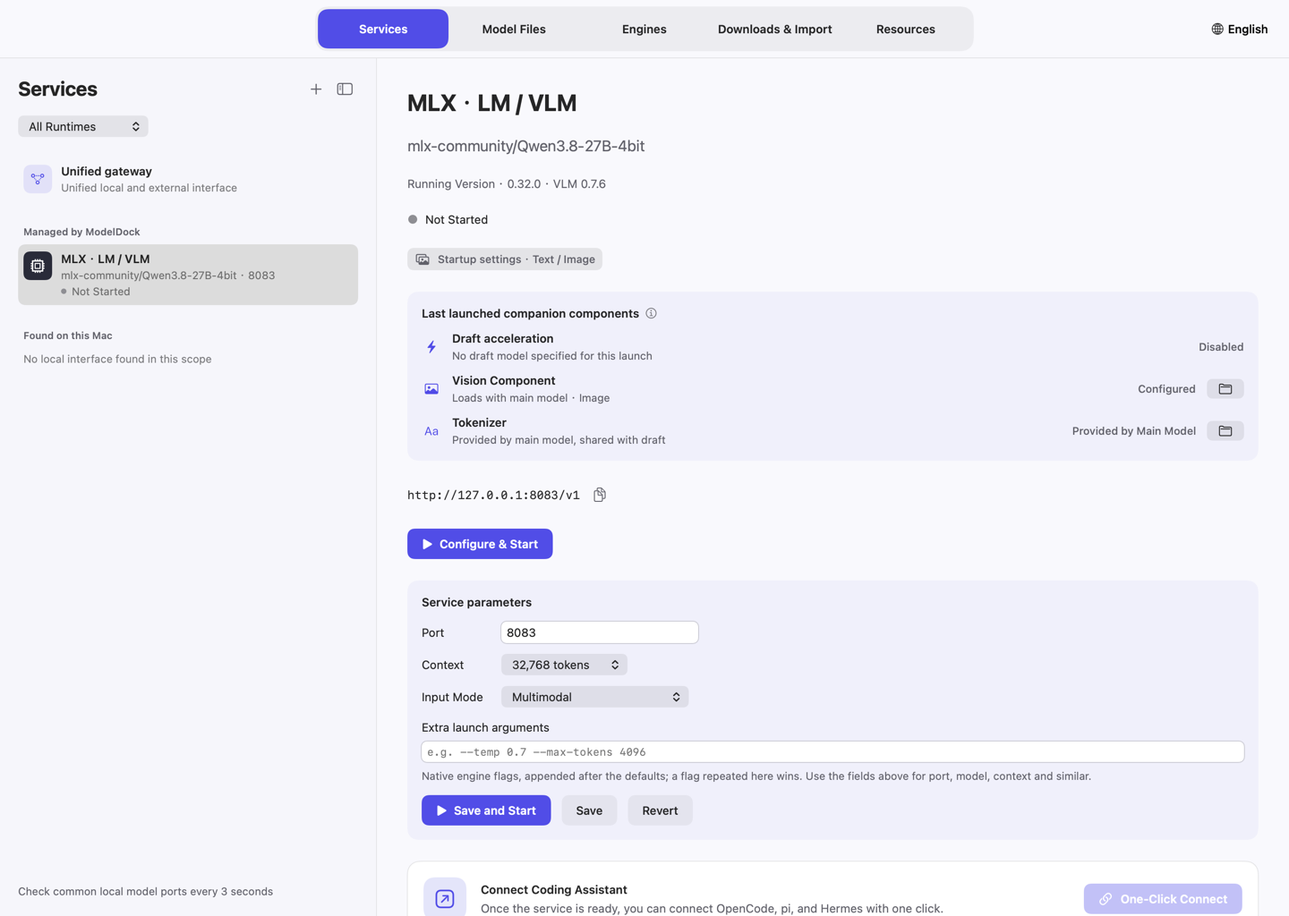
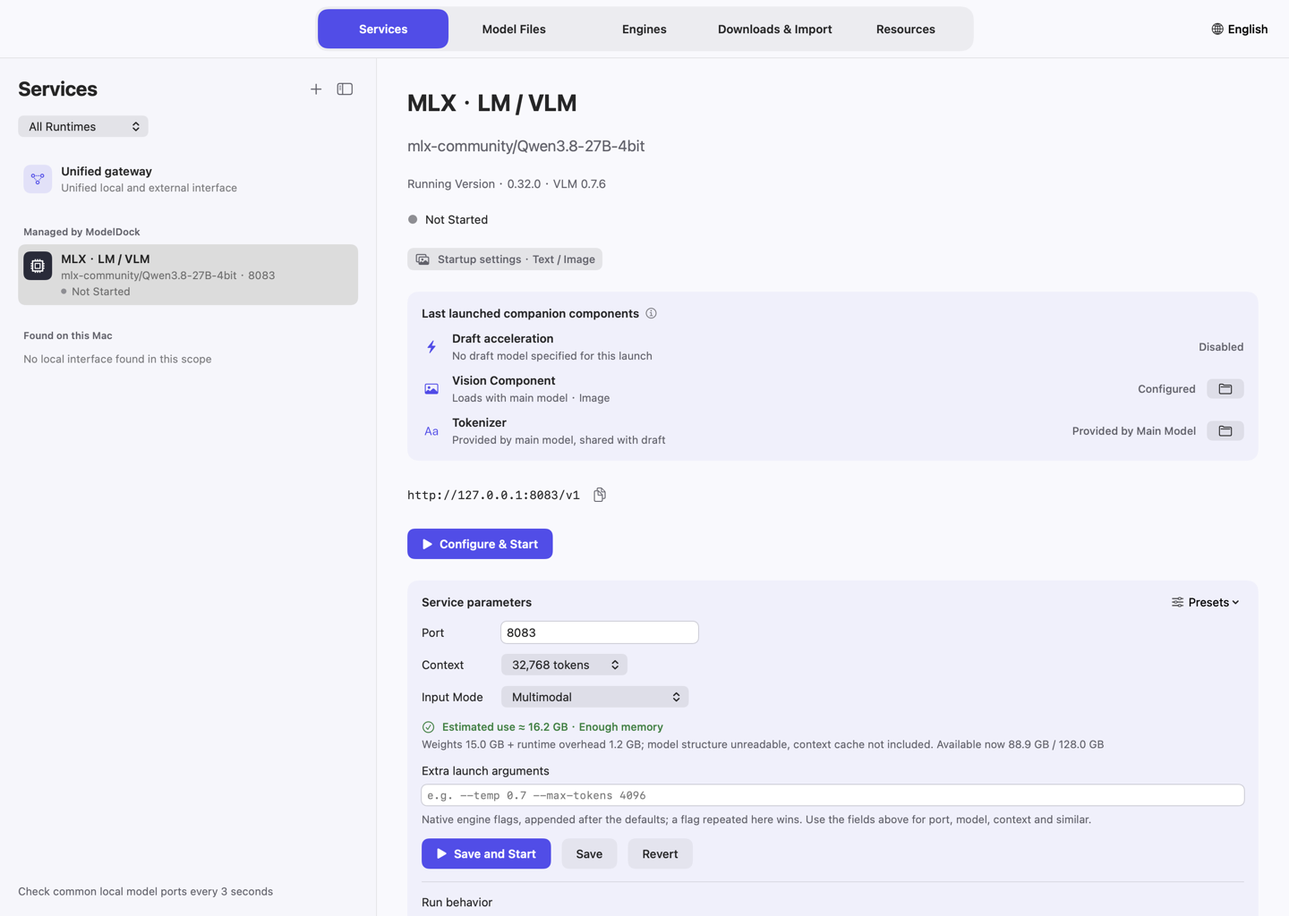
Release ModelDock 0.9.5

Changed region(s): [[0.3125, 0.7812, 0.8438, 1.0], [0.8438, 0.9375, 0.9688, 1.0], [0.9062, 0.6562, 0.9375, 0.6875]]

diff --git a/website/guide.html b/website/guide.html
@@ -71,6 +71,7 @@
 <p>Each prepared combination has a separate directory. <strong>Model Files → Associated launch components</strong> selects a retained combination for a later launch. Running services retain their original combination. Updating Strata changes its runtime, not model files; stop only Strata services before that update. Shared weights and components in use are protected from deletion or repair.</p>
 <p>Strata requires matched <strong>Flash-Next weights + n-gram + vocabulary/model pack</strong>. Its MTP component is not a Splash DFlash draft. Image support needs the prepared projection/encoder; this integration does not claim audio, video or PDF support. External Strata APIs can still be registered with the gateway and pi/OpenCode. See the <a href="https://github.com/Niko1221/Strata/blob/main/docs/MAC.md">official Mac guide</a> for upstream architecture limits.</p>
 <h2 id="3-download-a-model">3. Download a model</h2>
+<p>If you do not know the repository name, search Hugging Face at the top of the page: enter keywords and pick a format (all, GGUF, MLX). Results are sorted by downloads; <strong>Select</strong> resolves the repository's files. GGUF files in the list are labeled <strong>Fits this Mac</strong>, <strong>Tight on memory</strong> or <strong>Exceeds this Mac's memory</strong> by size (context cache not included).</p>
 <p>Open <strong>Downloads &amp; Import</strong>, choose the destination library, and enter either:</p>
 <pre><code class="language-text">mlx-community/Qwen3.8-27B-4bit
 https://huggingface.co/mlx-community/Qwen3.8-27B-4bit
@@ -106,7 +107,7 @@ https://huggingface.co/mlx-community/Qwen3.8-27B-4bit
 <p>Click <strong>Start Service…</strong> — from the <strong>+</strong> in the Services sidebar, an engine's <strong>Service instances</strong>, or <strong>Configure Service</strong> on a model — then choose the engine and model in the sheet and review:</p>
 <ol>
 <li><strong>Port:</strong> use an unused port. Each independently hosted service needs its own endpoint; the manager identifies listeners by process identity as well as the port.</li>
-<li><strong>Context window:</strong> configure a size supported by the engine/model and your available memory. Client limits must match the actual service window.</li>
+<li><strong>Context window:</strong> configure a size supported by the engine/model and your available memory. Client limits must match the actual service window. The panel estimates memory use as weights + context cache + runtime overhead and marks it as enough, tight or exceeding against the memory available now. It is an approximation assuming an f16 cache; when the model structure cannot be read, only the weights are counted.</li>
 <li><strong>Input mode:</strong> choose automatic, text-only, or multimodal where supported. A text-only model cannot gain image support through a checkbox.</li>
 <li><strong>Auxiliary components:</strong> choose the matching vision projector or draft model when the engine supports that component.</li>
 <li><strong>Runtime options:</strong> use only the options exposed for that engine. Additional supported CLI launches can be configured through <strong>Launch from command…</strong>.</li>
@@ -119,10 +120,13 @@ https://huggingface.co/mlx-community/Qwen3.8-27B-4bit
 <p>For the Qwen3.8-27B family, <code>incoai/Qwen3.8-27B-DFlash2</code> is an auxiliary draft package. It is not a standalone chat model. Its <code>config.json</code> and <code>model.safetensors</code> are required; it can share the main model's tokenizer. Splash's compatible current model preparation uses a matched draft. MLX-VLM draft support depends on its runtime and architecture support; MLX-LM cannot use this DFlash2 format as a generic draft.</p>
 <p>A vision-capable model can be run text-only when the selected runtime supports that mode. MLX multimodal services use <strong>MLX-VLM</strong>, not just MLX-LM. Older Splash packed models remain text-only and need their matching retained runtime.</p>
 <h2 id="7-manage-services-and-model-versions">7. Manage services and model versions</h2>
-<p>Every independent instance appears in <strong>Services</strong>, with its model, port, and status. Click anywhere on its card to select it. Stop a specific instance without stopping another one. Once stopped, its configuration can be deleted; model files and logs are retained. The copy icon after the endpoint copies the address.</p>
+<p>Every independent instance appears in <strong>Services</strong>, with its model, port, and status. Click anywhere on its card to select it. Stop a specific instance without stopping another one. Once stopped, its configuration can be deleted; model files and logs are retained, and its pi/OpenCode registrations are removed. A service whose model files were deleted shows a notice with <strong>Remove Service and Integrations…</strong>. If a client still lists registrations of deleted models or services, <strong>Clean up stale client registrations</strong> appears below <strong>Connect Coding Assistant</strong>. The copy icon after the endpoint copies the address.</p>
 <p><strong>Service parameters</strong> on the instance page lists the port, context window, input mode and engine-specific options, and can be edited in place. <strong>Extra launch arguments</strong> append native engine flags (for example <code>-ngl 99 --threads 8</code> for llama.cpp); flags managed by the fields above are rejected. On a running service, <strong>Save and Restart</strong> stops it and starts it with the new values; if that start fails, the previous settings are restored and restarted. Services created from a launch command are edited through their command instead.</p>
+<p><strong>Presets</strong> on the instance page save the context, input mode and extra launch arguments under a name for other services of the same engine; after applying one, click <strong>Save</strong> or <strong>Save and Restart</strong>. Under <strong>Run behavior</strong>, check <strong>Start with ModelDock</strong> and choose <strong>Stop when idle</strong>: the service stops to free memory after receiving no gateway requests with an idle CPU for the set time, and the next request through the gateway wakes it (the first request waits for the model to load). Direct requests to the service port do not wake it, and services you stop manually are never woken.</p>
+<p>Once a service is ready, <strong>Try chat</strong> sends messages straight to it so you can confirm the model answers. Each reply shows first-token latency, generation speed and token count; <strong>Chat settings</strong> sets the system prompt, temperature and maximum output, and services that accept images let you attach them. The chat calls the service's own API, not the gateway, and writes no client configuration. Completed replies for which the service reports usage are added to <strong>Measurement history</strong>, marked as from chat. <strong>Compare…</strong> picks another running service; the same message then goes to both and the replies and speeds appear side by side.</p>
 <p>A model update is downloaded as another revision when the source supports revision snapshots. The existing service keeps its launched path/version. After the new files are complete, select the new version and configure another launch or restart the intended service. Keep an older version to switch back later, or move it to the Trash when it is unused.</p>
 <p>Files used by running main/auxiliary models and shared cache references are protected. Ollama manages registered models differently: deletion uses Ollama's native operation and requires the model to be unloaded. It is not a Trash operation.</p>
+<p>Deleting a model also cleans up what refers to it, and the confirmation lists what will be removed: stopped service configurations and logs for that model, the model's pi/OpenCode registrations written by ModelDock (including a default model and pi compaction overrides), gateway route preferences for those services, draft/projector links in other models or engine defaults that pointed to the deleted files, and the model's benchmark records. Client configs are backed up before they are changed; providers and models you added yourself are untouched. Uninstalling an engine with <strong>Remove this engine's service configs…</strong> checked cleans up the same way.</p>
 <h2 id="8-connect-directly-or-through-the-gateway">8. Connect directly or through the gateway</h2>
 <p>A direct service exposes an endpoint such as <code>http://127.0.0.1:8083/v1</code>. Copy it from the service detail and select a model ID actually reported by the service.</p>
 <p>The <strong>Unified gateway</strong> provides one OpenAI-compatible endpoint for enabled routes:</p>
@@ -134,6 +138,7 @@ https://huggingface.co/mlx-community/Qwen3.8-27B-4bit
 <li>Keep the gateway access key private. Remote endpoints and keys are configuration, not public documentation.</li>
 </ul>
 <p>The gateway and individual services remain separate endpoints. A client can use either connection method.</p>
+<p><strong>LAN sharing</strong> is off by default. When on, the gateway listens on all interfaces and shows this Mac's LAN address; other devices must send the gateway key. Turn it on only in trusted networks.</p>
 <h3 id="pi-and-opencode">pi and OpenCode</h3>
 <p>From a ready service, open <strong>One-click integration</strong>, choose the direct or gateway route, model, and working directory. <strong>Write configuration</strong> registers the model in the client's native settings and backs up the original configuration. Existing providers and default-model choices are preserved.</p>
 <p><strong>Connect &amp; open</strong> starts the selected client with the prepared connection. <strong>Copy command</strong> is useful for manual terminal launch. After changing model limits or settings, an already-running client may need to reload/reselect the model or begin a new session.</p>
@@ -144,6 +149,8 @@ https://huggingface.co/mlx-community/Qwen3.8-27B-4bit
 <p>The menu-bar panel shows system CPU, memory, disk and library usage, service resources, downloads that are still in progress or need attention, and recent measurements when available. Click a download's management action to open the relevant task.</p>
 <p>Clicking inside the panel keeps it usable; clicking another window or desktop area closes it. Clicking its status icon toggles the panel. <strong>Open Management Interface</strong> reopens the main window. Closing the main window keeps background work running by default; <strong>Quit ModelDock</strong> pauses downloads and stops monitoring while independently running model services remain available.</p>
 <p>Performance values labeled as measurements come from an actual benchmark or supported service logs. Unknown measurements remain unavailable; do not compare startup estimates with generation throughput.</p>
+<p><strong>Gateway Requests</strong> lists requests made through the gateway: per-model requests, failures, input/output tokens and average time, plus recent requests. Only this metadata is recorded, never request or reply content.</p>
+<p>The trash icon on each <strong>Measurement history</strong> row deletes that record. When records of deleted models remain, <strong>Clean up deleted models</strong> appears next to the heading; if a model is on a disconnected drive, connect it before cleaning up.</p>
 <h2 id="10-troubleshooting">10. Troubleshooting</h2>
 <table>
 <thead>

diff --git a/website/guide.zh-CN.html b/website/guide.zh-CN.html
@@ -71,6 +71,7 @@
 <p>每次准备保存为独立组合。在 <strong>模型文件 → 关联启动组件</strong>选择保留的组合供后续启动。已启动服务保留原组合；更新 Strata 只更换运行组件，保留模型文件，只要求停止 Strata 自己的服务。使用中的共用权重和组件不能删除或替换修复。</p>
 <p>Strata 需要匹配的 <strong>Flash-Next 主权重 + n-gram + 词表/模型包</strong>，MTP 不是 Splash 的 DFlash 草稿。图片需要已准备的投影和编码器；此集成不宣称支持音频、视频或 PDF。仍可把外部 Strata 接口加入网关和 pi/OpenCode。架构限制见<a href="https://github.com/Niko1221/Strata/blob/main/docs/MAC.md">官方 Mac 说明</a>。</p>
 <h2 id="3">3. 下载模型</h2>
+<p>不知道仓库名时，可在页面顶部搜索 Hugging Face：输入关键词并选择格式（全部、GGUF、MLX），结果按下载量排序，点击“选择”即解析该仓库的文件。文件列表中的 GGUF 文件会按大小标注“本机可运行”“内存偏紧”或“超出本机内存”（不含上下文缓存）。</p>
 <p>在“下载导入”选择模型库位置，输入模型 ID 或完整地址，例如：</p>
 <pre><code class="language-text">mlx-community/Qwen3.8-27B-4bit
 https://huggingface.co/mlx-community/Qwen3.8-27B-4bit
@@ -106,7 +107,7 @@ https://huggingface.co/mlx-community/Qwen3.8-27B-4bit
 <p>点击“启动服务…”（模型服务侧栏的 <strong>+</strong>、引擎的“服务实例”分段，或模型的“配置服务”），在弹窗中选择引擎和模型，逐项检查：</p>
 <ol>
 <li><strong>端口：</strong>使用未占用的端口。独立托管的多个服务各有自己的地址；程序同时检查端口和监听进程身份。</li>
-<li><strong>上下文：</strong>选择引擎、模型及内存能支持的长度。客户端声明的窗口必须与真实服务一致。</li>
+<li><strong>上下文：</strong>选择引擎、模型及内存能支持的长度。客户端声明的窗口必须与真实服务一致。面板会按“权重 + 上下文缓存 + 运行开销”给出预计内存占用，并对照本机可用内存标为充足、偏紧或超出；这是按 f16 缓存估算的近似值，读不到模型结构时只计权重。</li>
 <li><strong>输入模式：</strong>选择自动、纯文本或支持的多模态。文本模型不能靠开关获得视觉能力。</li>
 <li><strong>配套组件：</strong>基座支持时，选择匹配的视觉投影或草稿模型。</li>
 <li><strong>运行选项：</strong>仅使用该引擎支持的参数；可通过“按命令行启动”配置额外受支持的命令行方式。</li>
@@ -119,10 +120,13 @@ https://huggingface.co/mlx-community/Qwen3.8-27B-4bit
 <p>Qwen3.8-27B 系列的 <code>incoai/Qwen3.8-27B-DFlash2</code> 是辅助草稿包，不能当作独立聊天模型运行。它需要 <code>config.json</code> 和 <code>model.safetensors</code>，可以共用主模型 tokenizer。匹配的新版 Splash 组合使用适配草稿；MLX-VLM 的草稿支持依赖具体运行时与架构，MLX-LM 不能把该格式当成通用草稿加载。</p>
 <p>视觉模型可以在引擎支持时按纯文本启动。MLX 多模态需要 <strong>MLX-VLM</strong>，只有 MLX-LM 不够。旧 Splash packed 模型仍是纯文本，使用匹配的保留运行组件。</p>
 <h2 id="7">7. 服务实例与模型版本</h2>
-<p>“模型服务”列出每个独立实例的模型、端口和状态。整块卡片可选中，可以停止其中一个实例而保留另一个。停止后可删除该服务配置，模型文件和日志保留。接口地址后的复制图标可直接复制地址。</p>
+<p>“模型服务”列出每个独立实例的模型、端口和状态。整块卡片可选中，可以停止其中一个实例而保留另一个。停止后可删除该服务配置，模型文件和日志保留，该服务在 pi/OpenCode 中的接入登记会一并移除。模型文件已被删除的服务会显示提示，并提供“移除服务及相关接入”。如果客户端里还留有已删除模型或服务的登记，“接入编程助手”下方会出现“清理失效的接入登记”。接口地址后的复制图标可直接复制地址。</p>
 <p>实例页的“服务参数”列出端口、上下文、输入模式和该引擎的专属选项，可直接修改。“附加启动参数”用于追加引擎原生参数（如 llama.cpp 的 <code>-ngl 99 --threads 8</code>），已由上方字段管理的参数会被拒绝。运行中的服务点击“保存并重启”，会停止后用新参数启动；新参数启动失败时自动按原参数恢复。由启动命令创建的服务请通过编辑命令修改。</p>
+<p>实例页的“参数预设”可把上下文、输入模式和附加启动参数存成命名预设，套用到同类引擎的其他服务；套用后仍需点“保存”或“保存并重启”。“运行方式”中可勾选“随 ModelDock 启动”，并设置“空闲自动停止”：服务在设定时间内没有网关请求、CPU 也空闲时自动停止以释放内存，之后经统一网关发来的请求会自动唤醒它（首个请求需等待模型加载），直接访问服务端口不会唤醒。手动停止的服务不会被唤醒。</p>
+<p>服务就绪后点击“试聊”，可直接向该服务发送消息，确认模型能正常回答。回复下方显示首字延迟、生成速度和 token 数；“对话参数”中可设置系统提示词、温度和最大输出，支持图片输入的服务还可以附加图片。试聊直接调用服务自己的接口，不经过网关，也不写入任何客户端配置。完整结束且服务报告了用量的回复会记入“实测历史”，标注“来自试聊”。点击“对比…”选择另一个运行中的服务后，同一条消息会同时发给两个服务，左右并排显示回复和速度。</p>
 <p>支持版本快照的来源会把模型更新下载为另一个版本，已有服务继续使用启动时的路径和版本。新文件完整后，选择新版本，配置另一个实例或重启目标服务。旧版本可以保留供后续切回，也可在不使用时移至废纸篓。</p>
 <p>运行中的主模型、辅助模型以及共享缓存受到保护。Ollama 登记模型使用原生删除操作，须先卸载常驻模型；它的删除不会经过废纸篓。</p>
+<p>删除模型时会一并清理相关配置，确认弹窗会列出将要移除的内容：使用该模型的已停止服务配置及日志、pi/OpenCode 中由 ModelDock 写入的该模型登记（包括默认模型和 pi 的压缩设置）、网关中这些服务的路由偏好、其他模型或引擎默认设置中指向已删除草稿/投影的关联，以及该模型的测速记录。客户端配置修改前会备份，你自己添加的提供方和模型不受影响。卸载引擎时勾选“移除该引擎的服务配置……”也会按同样规则清理。</p>
 <h2 id="8">8. 直连服务或使用统一网关</h2>
 <p>直接服务地址例如 <code>http://127.0.0.1:8083/v1</code>，可从服务详情复制。使用服务实际报告的模型 ID。</p>
 <p>“统一网关”把启用的路由暴露在同一个 OpenAI 兼容接口下：</p>
@@ -134,6 +138,7 @@ https://huggingface.co/mlx-community/Qwen3.8-27B-4bit
 <li>保护网关访问密钥。远程接口和密钥是个人配置，不应出现在公开文档中。</li>
 </ul>
 <p>网关和各个独立服务是不同地址，客户端可以选择任一接入方式。</p>
+<p>“局域网共享”默认关闭。开启后网关监听所有网卡，页面显示本机局域网地址；其他设备必须携带网关密钥才能访问。请只在可信网络中开启。</p>
 <h3 id="pi-opencode">pi 与 OpenCode 一键接入</h3>
 <p>从就绪服务打开“一键接入”，选择直连或统一网关、目标模型及工作目录。“写入配置”登记到客户端原生配置并备份原配置，保留已有提供方和默认模型。</p>
 <p>“接入并打开”使用准备好的连接启动客户端，“复制命令”可用于手动终端启动。更新模型限制或参数后，已经运行的客户端可能需要重载、重新选择模型或新建会话。</p>
@@ -144,6 +149,8 @@ https://huggingface.co/mlx-community/Qwen3.8-27B-4bit
 <p>菜单栏面板显示 CPU、内存、磁盘、模型库、服务资源、进行中或需要处理的下载任务及已有测量结果。下载任务的管理入口会跳转到对应任务。</p>
 <p>面板内操作正常响应，点击其他窗口或桌面区域会自动收起；点击状态图标切换展开/关闭。“打开管理界面”重新显示主窗口。默认关闭主窗口继续后台任务；“退出模型管理”会暂停下载、停止监测，独立运行的模型服务继续可用。</p>
 <p>标为实测的性能来自实际测量或支持的运行日志，没有数据时不编造数值。启动估算进度与生成吞吐量是不同指标，不应混用。</p>
+<p>“网关请求”显示经统一网关的请求：按模型汇总请求数、失败数、输入/输出 token 和平均耗时，并列出最近的请求。网关只记录这些元数据，不记录请求和回复内容。</p>
+<p>“实测历史”中每条记录右侧的删除图标可单独删除该记录。存在已删除模型的记录时，标题旁会出现“清理已删除模型的记录”；如果模型位于暂未连接的磁盘，请先连接再清理。</p>
 <h2 id="10">10. 常见问题</h2>
 <table>
 <thead>

diff --git a/Tests/package_payload_checks.py b/Tests/package_payload_checks.py
@@ -18,10 +18,10 @@ class PackagePayloadChecks(unittest.TestCase):
         self.payload = Path(self.temporary.name)
         entries = []
         for suffix in ['dmg', 'zip']:
-            name = f'ModelDock-0.9.3-AppleSilicon.{suffix}'
+            name = f'ModelDock-0.9.5-AppleSilicon.{suffix}'
             (self.payload / name).write_bytes(b'complete verified release fixture')
             entries.append({'name': name, 'bytes': (self.payload / name).stat().st_size, 'sha256': publisher.digest(self.payload / name)})
-        self.manifest = {'version': '0.9.3', 'appBundle': 'ModelDock.app', 'architecture': 'arm64', 'artifacts': entries}
+        self.manifest = {'version': '0.9.5', 'appBundle': 'ModelDock.app', 'architecture': 'arm64', 'artifacts': entries}
         self.save()
         (self.payload / 'SHA256SUMS.txt').write_text(''.join(row['sha256'] + '  ' + row['name'] + '\n' for row in entries))
 
@@ -32,30 +32,30 @@ class PackagePayloadChecks(unittest.TestCase):
         (self.payload / 'release.json').write_text(json.dumps(self.manifest))
 
     def test_valid_payload(self):
-        self.assertEqual(publisher.validate_payload(self.payload, '0.9.3')['version'], '0.9.3')
+        self.assertEqual(publisher.validate_payload(self.payload, '0.9.5')['version'], '0.9.5')
 
     def test_same_size_tampering(self):
         (self.payload / self.manifest['artifacts'][0]['name']).write_bytes(b'X' * self.manifest['artifacts'][0]['bytes'])
-        with self.assertRaises(ValueError): publisher.validate_payload(self.payload, '0.9.3')
+        with self.assertRaises(ValueError): publisher.validate_payload(self.payload, '0.9.5')
 
     def test_cross_version(self):
         with self.assertRaises(ValueError): publisher.validate_payload(self.payload, '0.8.3')
 
     def test_traversal(self):
         self.manifest['artifacts'][0]['name'] = '../outside.dmg'; self.save()
-        with self.assertRaises(ValueError): publisher.validate_payload(self.payload, '0.9.3')
+        with self.assertRaises(ValueError): publisher.validate_payload(self.payload, '0.9.5')
 
     def test_duplicate_artifact(self):
         self.manifest['artifacts'].append(self.manifest['artifacts'][0]); self.save()
-        with self.assertRaises(ValueError): publisher.validate_payload(self.payload, '0.9.3')
+        with self.assertRaises(ValueError): publisher.validate_payload(self.payload, '0.9.5')
 
     def test_conflicting_checksum(self):
         p = self.payload / 'SHA256SUMS.txt'; p.write_text(p.read_text().replace(self.manifest['artifacts'][0]['sha256'], '0' * 64))
-        with self.assertRaises(ValueError): publisher.validate_payload(self.payload, '0.9.3')
+        with self.assertRaises(ValueError): publisher.validate_payload(self.payload, '0.9.5')
 
     def test_symlink(self):
         p = self.payload / self.manifest['artifacts'][0]['name']; other = self.payload / 'outside'; shutil.move(p, other); p.symlink_to(other)
-        with self.assertRaises(ValueError): publisher.validate_payload(self.payload, '0.9.3')
+        with self.assertRaises(ValueError): publisher.validate_payload(self.payload, '0.9.5')
 
 
 if __name__ == '__main__':

diff --git a/README.md b/README.md
@@ -17,9 +17,9 @@ ModelDock brings model runtimes, model files, downloads, and API services into o
 
 - **Manage engines:** inspect installations, check component versions, install or update supported distributions, enable or hide engines, and review uninstall or residual-file cleanup plans.
 - **Manage models:** import local GGUF/Safetensors directories, inspect file completeness and compatibility, repair individual files, keep model revisions side by side, and choose a version for a future launch. See running/stopped instance counts for each model and jump to its engine instance list.
-- **Control downloads:** resolve a Hugging Face `owner/repo` or a full URL, use ModelScope or GitHub repositories, GitHub Release assets, or supported direct file links. Download up to 8 models concurrently (2 by default), see per-task and per-file progress, speed and estimated time remaining, and pause or prioritize individual files.
-- **Run services:** configure ports, context windows, text or multimodal input, and supported runtime options; manage several independent instances; see startup stages and associated draft/vision components.
-- **Connect clients:** register models with pi or OpenCode while preserving existing settings. Choose a direct endpoint or the OpenAI-compatible gateway; add remote compatible APIs to the same gateway.
+- **Control downloads:** resolve a Hugging Face `owner/repo` or a full URL, use ModelScope or GitHub repositories, GitHub Release assets, or supported direct file links. Download up to 8 models concurrently (2 by default), see per-task and per-file progress, speed and estimated time remaining, and pause or prioritize individual files. Search Hugging Face directly, with fit labels on GGUF files.
+- **Run services:** configure ports, context windows, text or multimodal input, and supported runtime options; manage several independent instances; see startup stages and associated draft/vision components. Estimate memory before launch; save presets, start with ModelDock, stop when idle; try chat and compare two services side by side. Deleting models or services also removes their client registrations.
+- **Connect clients:** register models with pi or OpenCode while preserving existing settings. Choose a direct endpoint or the OpenAI-compatible gateway; add remote compatible APIs to the same gateway. The gateway logs request usage (never content) and can optionally be shared on the LAN.
 - **Stay in the menu bar:** monitor CPU, memory, disk usage, download progress, and measured model performance. Closing the main window keeps the app running by default; clicking outside the menu-bar panel dismisses it.
 - **Update ModelDock:** check official GitHub Releases, automatically download and verify a newer Apple Silicon package, replace the app and reopen it. Model files, settings and running model services are preserved.
 

diff --git a/README.zh-CN.md b/README.zh-CN.md
@@ -17,9 +17,9 @@
 
 - **运行引擎：**检查安装位置和组件版本，安装与更新支持的发行源，启用或隐藏基座，查看卸载与残留清理范围。
 - **模型文件：**导入 GGUF、Safetensors 或完整目录，检查文件完整性与适配关系，修复单个文件，保留多个模型版本并为后续启动选择版本。每个模型显示运行与已停止实例数量，点击可跳转到对应引擎的服务实例。
-- **下载管理：**支持 Hugging Face 模型 ID、ModelScope、GitHub 仓库/单文件/Release 和模型直链。默认同时下载 2 个模型，可设置 1–8 个；逐任务与逐文件显示进度、速度和预计剩余时间，支持断点续传、暂停文件及优先下载。
-- **模型服务：**设置端口、上下文、纯文本或多模态、基座支持的运行选项；管理多个独立实例，查看启动阶段及草稿、视觉等配套组件。
-- **客户端接入：**向 pi、OpenCode 的配置登记模型，保留已有设置；支持直连或 OpenAI 兼容网关，也可把远程兼容 API 加入网关。
+- **下载管理：**支持 Hugging Face 模型 ID、ModelScope、GitHub 仓库/单文件/Release 和模型直链。默认同时下载 2 个模型，可设置 1–8 个；逐任务与逐文件显示进度、速度和预计剩余时间，支持断点续传、暂停文件及优先下载。可直接搜索 Hugging Face，GGUF 文件标注本机能否运行。
+- **模型服务：**设置端口、上下文、纯文本或多模态、基座支持的运行选项；管理多个独立实例，查看启动阶段及草稿、视觉等配套组件。启动前预估内存占用；保存参数预设、随 ModelDock 启动、空闲自动停止；内置试聊，可两个服务并排对比。删除模型或服务时一并清理客户端接入登记。
+- **客户端接入：**向 pi、OpenCode 的配置登记模型，保留已有设置；支持直连或 OpenAI 兼容网关，也可把远程兼容 API 加入网关。网关记录请求用量（不含内容），可选开启局域网共享。
 - **菜单栏管理：**查看 CPU、内存、磁盘、下载进度和模型实测性能。默认关闭主界面继续后台运行；点击菜单栏面板外部会自动收起。
 
 ## 基座适配

diff --git a/docs/PACKAGES.md b/docs/PACKAGES.md
@@ -9,17 +9,17 @@ For ordinary installation, download from [Releases](https://github.com/etongle/M
 Install [ORAS](https://oras.land/docs/installation/), then:
 
 ```sh
-oras pull ghcr.io/etongle/modeldock:0.9.4 --output modeldock-0.9.4
-cd modeldock-0.9.4
+oras pull ghcr.io/etongle/modeldock:0.9.5 --output modeldock-0.9.5
+cd modeldock-0.9.5
 shasum -a 256 -c SHA256SUMS.txt
-open ModelDock-0.9.4-AppleSilicon.dmg
+open ModelDock-0.9.5-AppleSilicon.dmg
 ```
 
 `latest` follows the latest stable GitHub Release. A private package needs an ORAS registry login; after it is public, anonymous downloads work.
 
 ## Publication
 
-The **Publish release to GitHub Packages** workflow runs when a Release is published. It can also be started manually with an existing release tag such as `v0.9.4`.
+The **Publish release to GitHub Packages** workflow runs when a Release is published. It can also be started manually with an existing release tag such as `v0.9.5`.
 
 It uses the repository's temporary `GITHUB_TOKEN` with `contents: read` and `packages: write`. No personal token or additional secret is needed. ORAS is pinned to an official release and verified archive checksum.
 
@@ -35,6 +35,6 @@ The package retains **PolyForm Noncommercial 1.0.0** and the required notices. E
 
 GitHub Packages 存放与 Release 相同的 Mac 安装文件，采用 OCI 文件包，可通过 ORAS 下载、验证校验值，再打开 DMG 安装。普通用户直接从 Release 下载安装即可。
 
-发布新 Release 时自动同步，也可手动选择 `v0.9.4` 等已有版本。流程使用临时工作流令牌，不需要个人密钥；发布前校验两个安装文件，发布后重新下载并比较七个文件的 SHA-256。
+发布新 Release 时自动同步，也可手动选择 `v0.9.5` 等已有版本。流程使用临时工作流令牌，不需要个人密钥；发布前校验两个安装文件，发布后重新下载并比较七个文件的 SHA-256。
 
 首次创建的包默认私有，需要在包页面的 **Package settings → Change visibility → Public** 中切换一次，才能让所有人匿名下载。后续版本沿用该设置。模型文件、个人配置和密钥均不加入包；非商业许可继续适用。
